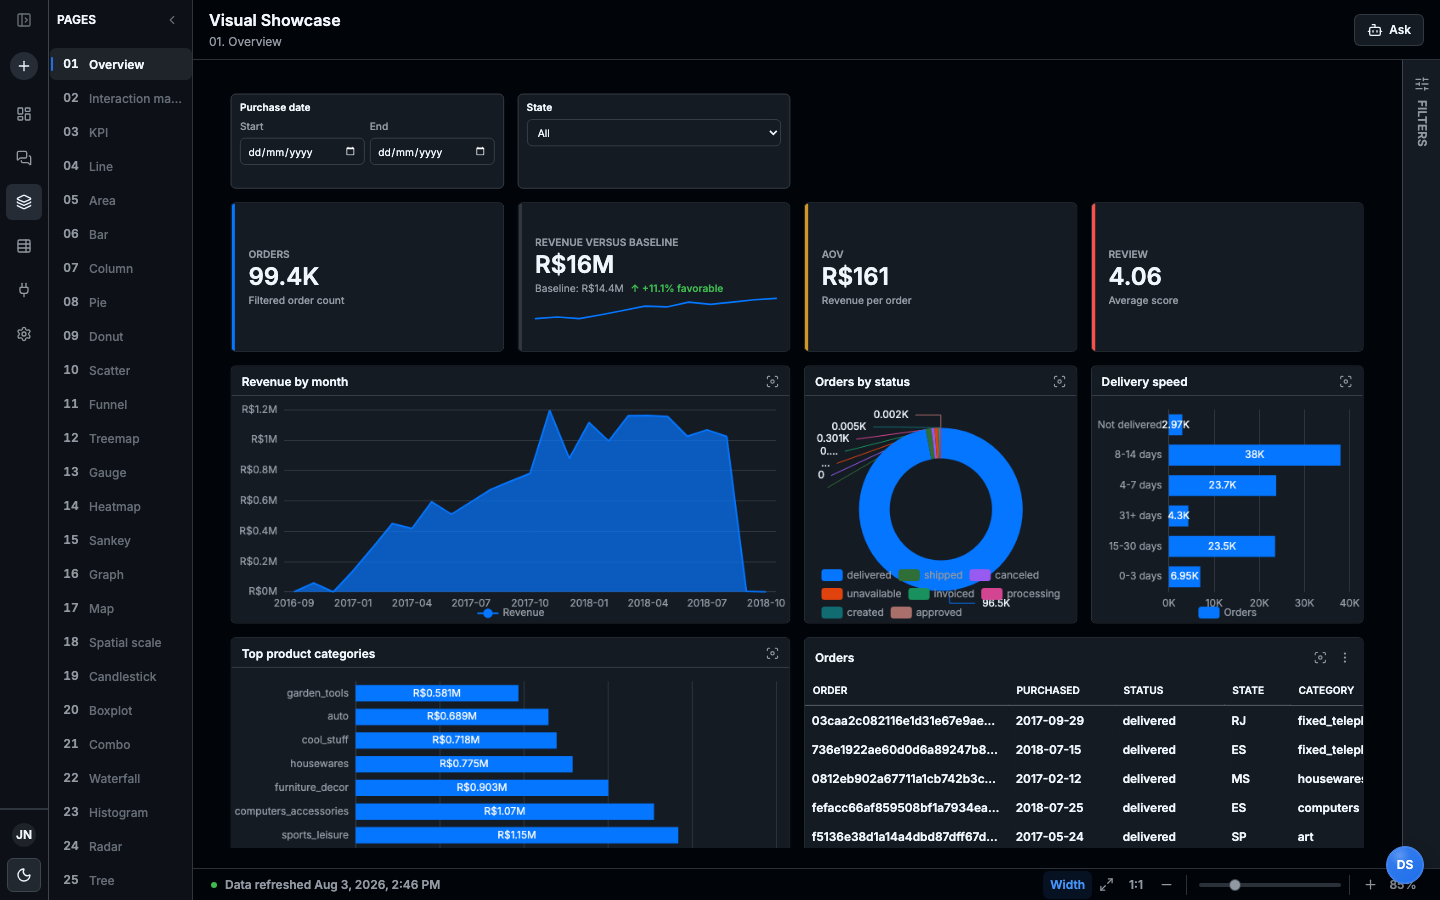
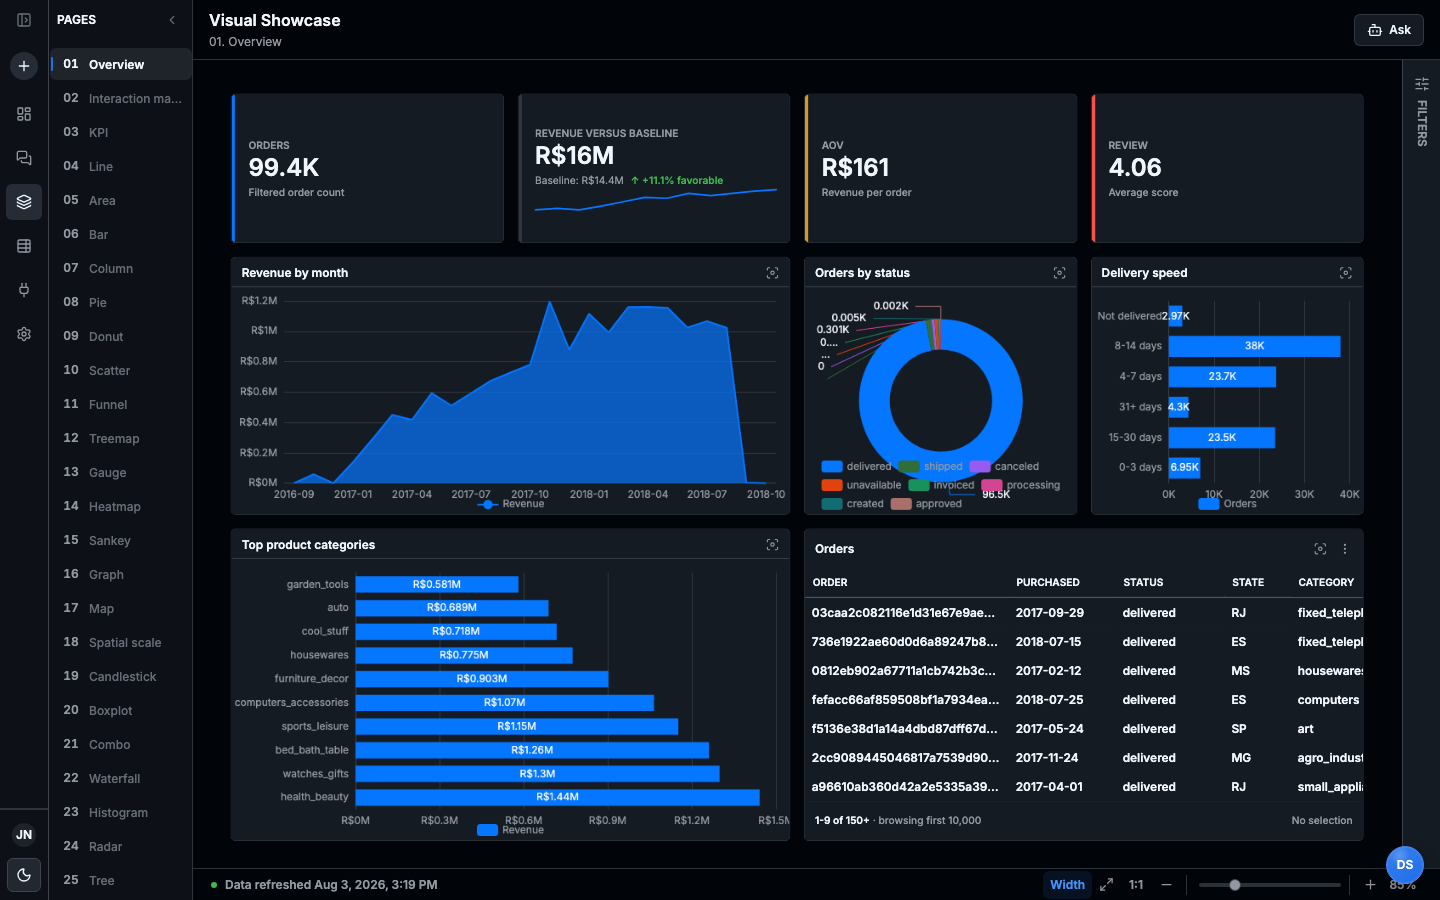
polish showcase overview hero

Changed region(s): [[0.1562, 0.0933, 0.9688, 0.9956], [0.8438, 0.7467, 0.875, 0.9022]]

diff --git a/internal/project/compiler/project_test.go b/internal/project/compiler/project_test.go
@@ -1334,6 +1334,7 @@ func writeProjectFixture(t *testing.T, files map[string]string) string {
 func assertVisualShowcaseCoverage(t *testing.T, report *reportdef.Dashboard) {
 	t.Helper()
 	assertFilterShowcaseCoverage(t, report)
+	assertOverviewStartsWithDecisionContext(t, report)
 	visualTypes := map[string]struct{}{}
 	for _, visual := range report.Visuals {
 		if visual.Type != "" {
@@ -1377,6 +1378,32 @@ func assertVisualShowcaseCoverage(t *testing.T, report *reportdef.Dashboard) {
 			t.Fatalf("visual-showcase missing conditional formatting kind %q", kind)
 		}
 	}
+}
+
+func assertOverviewStartsWithDecisionContext(t *testing.T, report *reportdef.Dashboard) {
+	t.Helper()
+	for _, page := range report.Pages {
+		if page.ID != "overview" {
+			continue
+		}
+		totalOrdersFound := false
+		for _, component := range page.Visuals {
+			if component.Kind == "slicer" {
+				t.Errorf("visual-showcase overview contains slicer %q; filters belong in the filter pane and dedicated reference page", component.ID)
+			}
+			if component.ID == "total-orders" {
+				totalOrdersFound = true
+				if component.Placement.Row != 1 {
+					t.Errorf("visual-showcase overview total-orders row = %d, want 1", component.Placement.Row)
+				}
+			}
+		}
+		if !totalOrdersFound {
+			t.Error("visual-showcase overview missing total-orders KPI")
+		}
+		return
+	}
+	t.Error("visual-showcase missing overview page")
 }
 
 func assertFilterShowcaseCoverage(t *testing.T, report *reportdef.Dashboard) {
